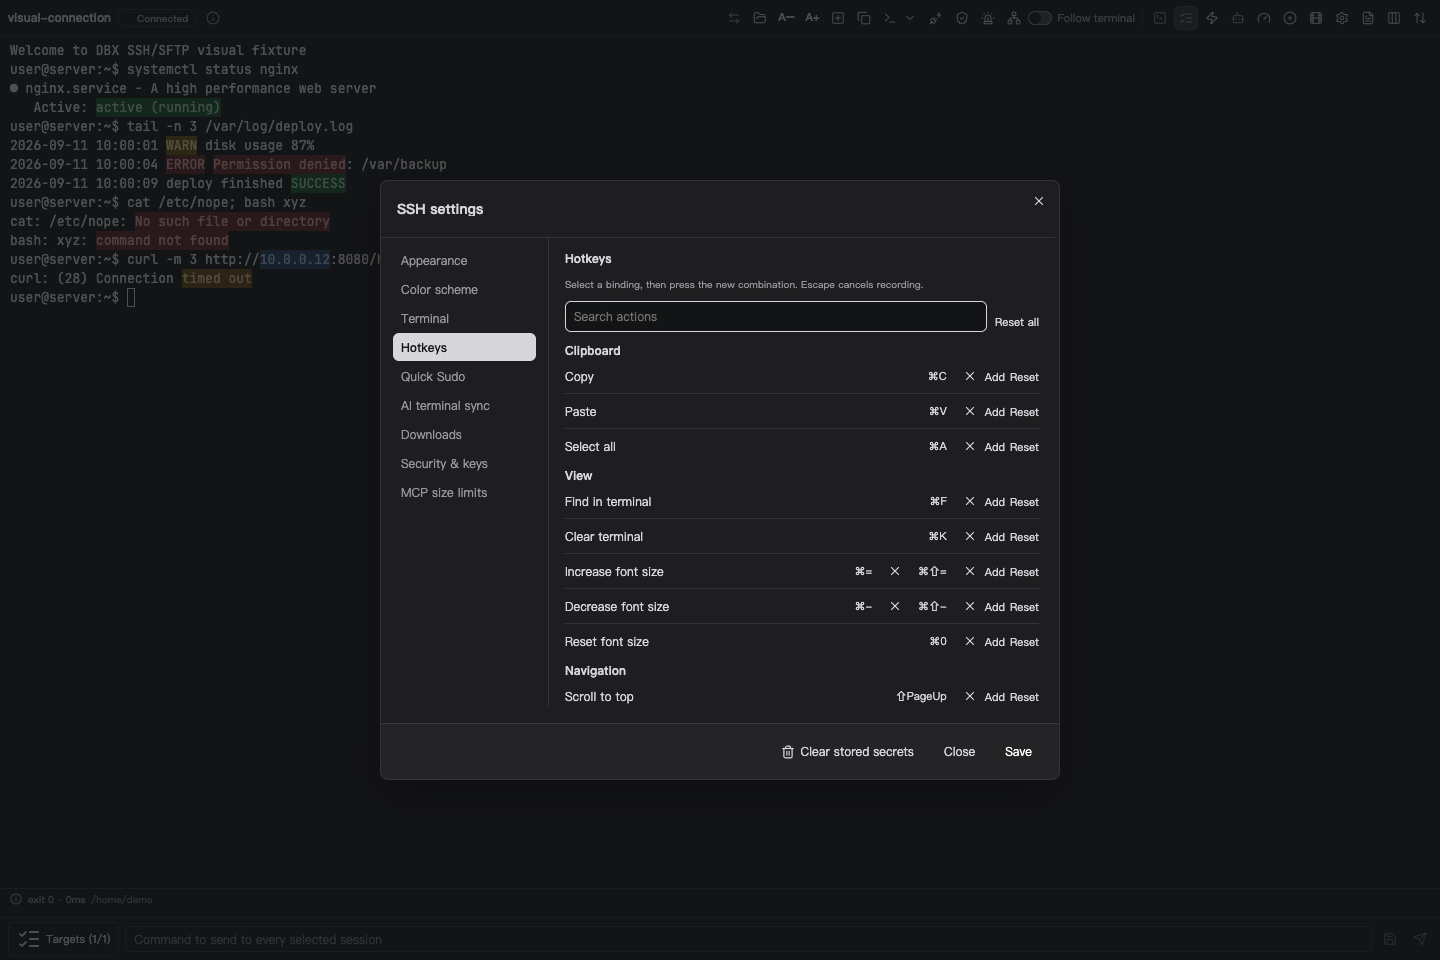
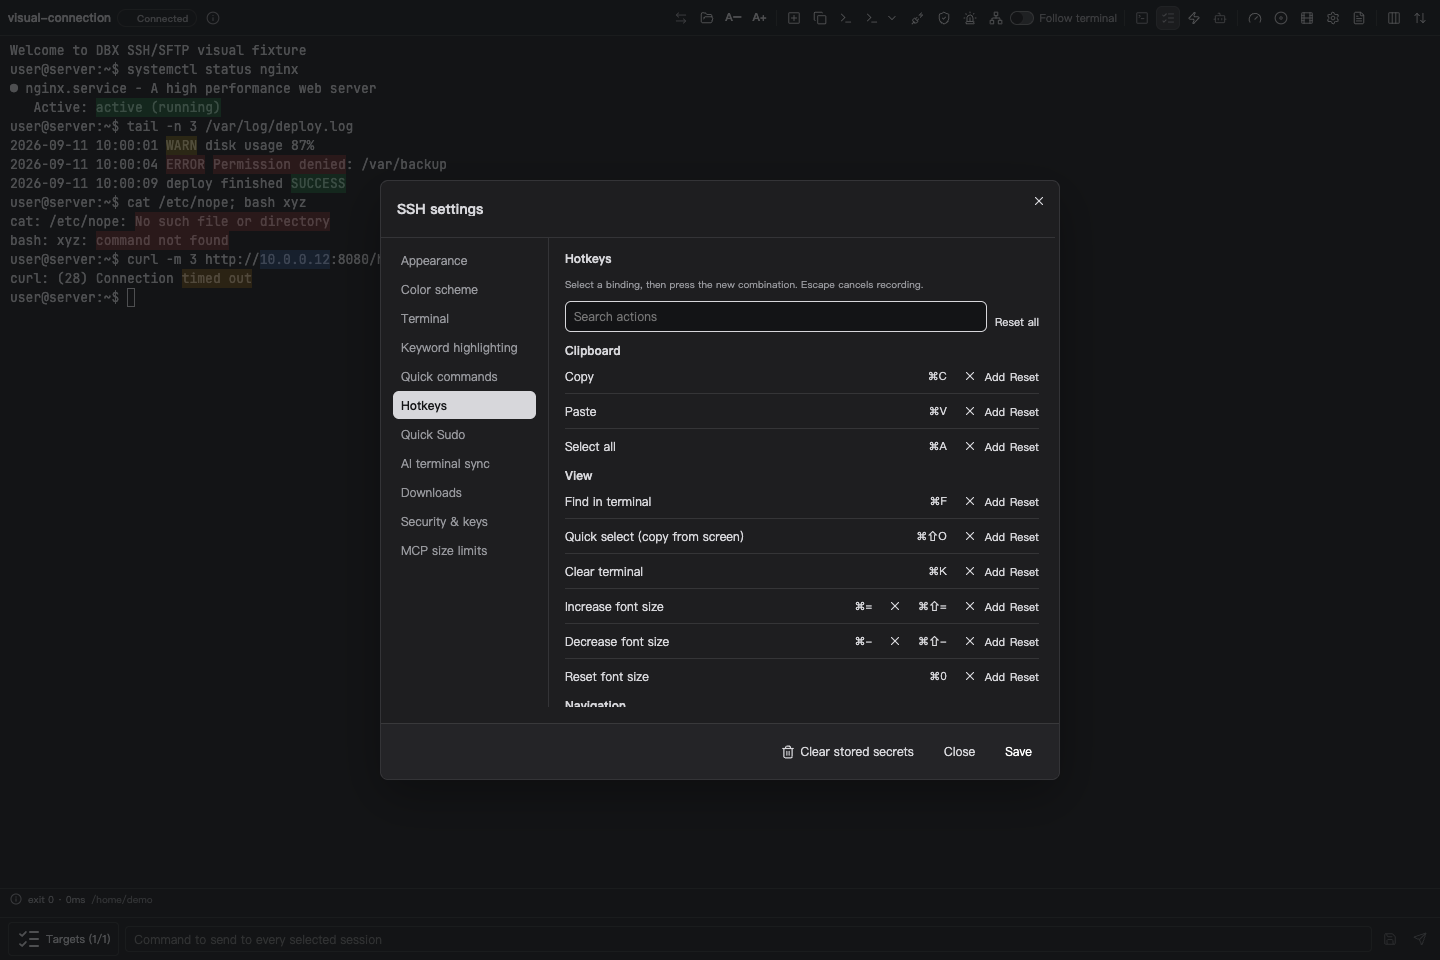
refactor(settings): 关键词高亮与快速命令拆出 Terminal 独立成栏
Terminal 分栏原有 ~275 行，渲染/键盘/鼠标/剪贴板之外还塞了高亮规则
管理器与快速命令片段管理器——内容过大且与终端行为关联性弱。拆分后：

- 新增 settingsCategory「highlight」（复用 highlightRules.title）与
  「commands」（复用 quickCommands）两个分栏，导航零新增 i18n 键
- Terminal 分栏只剩渲染/键盘/鼠标/剪贴板/声音/字体/ghost 等终端行为
  设置，规则与片段的增删改/导入逻辑原样上抛 App，数据面不变

smoke_ui_settings 同步：分栏数 9→11、Hotkeys/MCP 索引 3/8→5/10、
新增两个拆分分栏的渲染断言与截图，zh-CN 导航翻译断言更新。

验证：vue-tsc 0；vitest 122 文件 1208 用例全绿；
smoke_ui_settings all green。

diff --git a/frontend/src/components/SettingsDialog.vue b/frontend/src/components/SettingsDialog.vue
@@ -451,6 +451,10 @@ const SETTINGS_CATEGORIES = [
   { id: "appearance", labelKey: "settingsNav.appearance" },
   { id: "scheme", labelKey: "settingsNav.scheme" },
   { id: "terminal", labelKey: "settingsNav.terminal" },
+  // 从 Terminal 分栏拆出（内容过大且与终端行为关联性弱）：高亮规则是规则
+  // 管理器、快速命令是片段管理器，各自独立成栏，导航标签复用现有键。
+  { id: "highlight", labelKey: "highlightRules.title" },
+  { id: "commands", labelKey: "quickCommands" },
   { id: "hotkeys", labelKey: "settingsNav.hotkeys" },
   { id: "sudo", labelKey: "settingsNav.sudo" },
   { id: "agent", labelKey: "agentTerminalSection" },
@@ -1996,10 +2000,12 @@ defineExpose({ consumeInlineEsc, setDownloadDirDraft, setDownloadUseDefaultDraft
               <span>{{ t("terminalGhost.label") }}</span>
             </label>
             <p class="muted settings-note">{{ t("terminalGhost.hint") }}</p>
+            </div>
 
-            <!-- 关键词高亮规则（M32-A2）：从工具条弹层迁入，规则增删改/启停在此管理，
-                 终端渲染效果实时生效（数据面 RPC 与权威态在 App）。 -->
-            <h3 class="settings-section-title">{{ t("highlightRules.title") }}</h3>
+            <!-- 关键词高亮独立分栏：从 Terminal 分栏拆出（规则管理器与终端行为
+                 设置关联性弱），规则增删改/启停在此管理，终端渲染效果实时生效
+                 （数据面 RPC 与权威态在 App）。 -->
+            <div v-show="settingsCategory === 'highlight'" class="settings-pane">
             <HighlightRulesSection
               :rules="highlightRules"
               :saving="highlightSaving"
@@ -2009,9 +2015,11 @@ defineExpose({ consumeInlineEsc, setDownloadDirDraft, setDownloadUseDefaultDraft
               @delete="(id) => emit('delete-highlight-rule', id)"
               @toggle="(item) => emit('toggle-highlight-rule', item)"
             />
+            </div>
 
-            <!-- 快速命令（M32-A3）：执行留在工具条弹层（高频），新建/编辑/导入在此管理。 -->
-            <h3 class="settings-section-title">{{ t("quickCommands") }}</h3>
+            <!-- 快速命令独立分栏：从 Terminal 分栏拆出（片段管理器）。执行仍留在
+                 工具条弹层（高频），新建/编辑/导入在此管理。 -->
+            <div v-show="settingsCategory === 'commands'" class="settings-pane">
             <QuickCommandsSection
               :commands="quickCommands"
               :saving="quickSaving"
